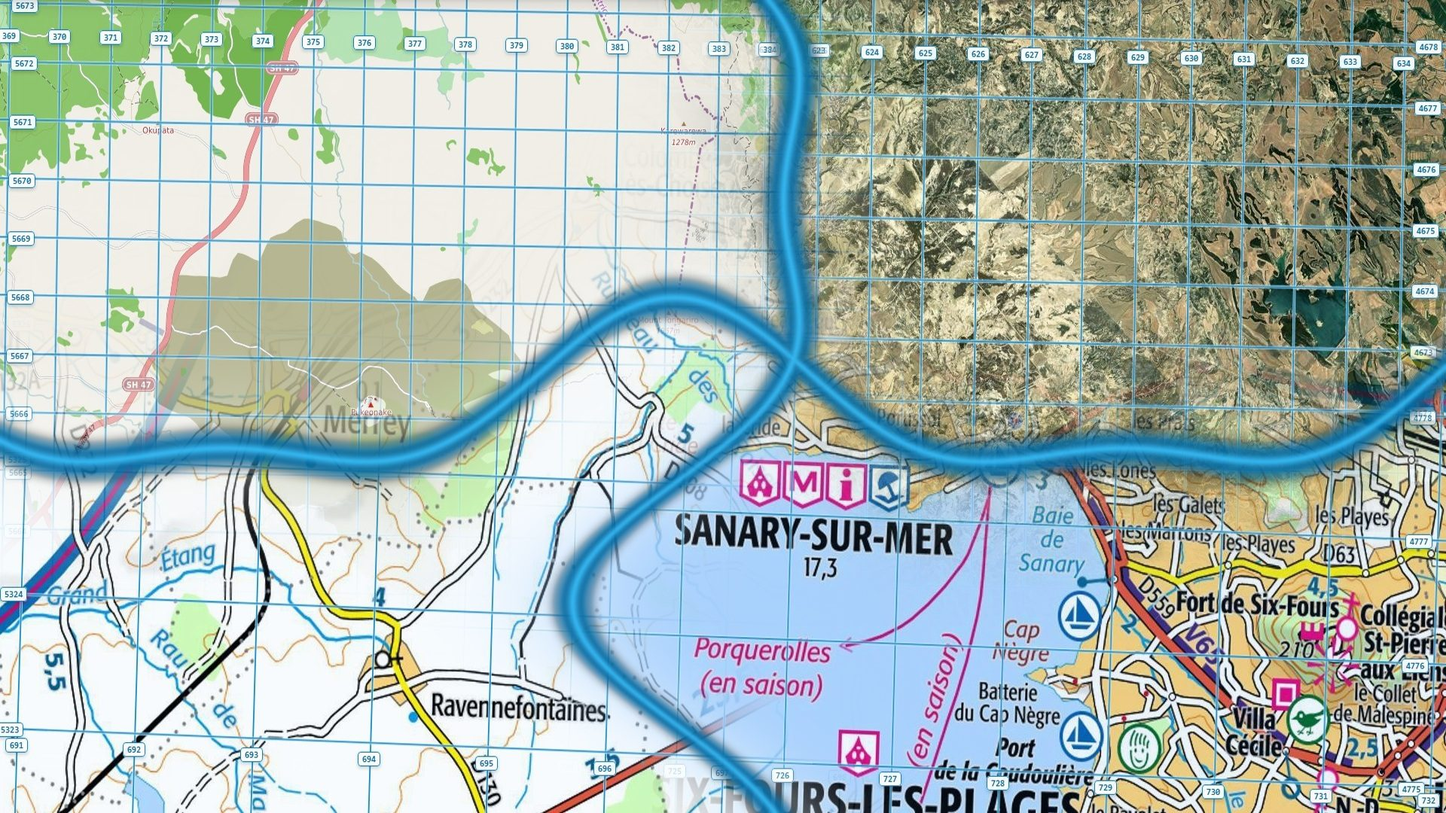
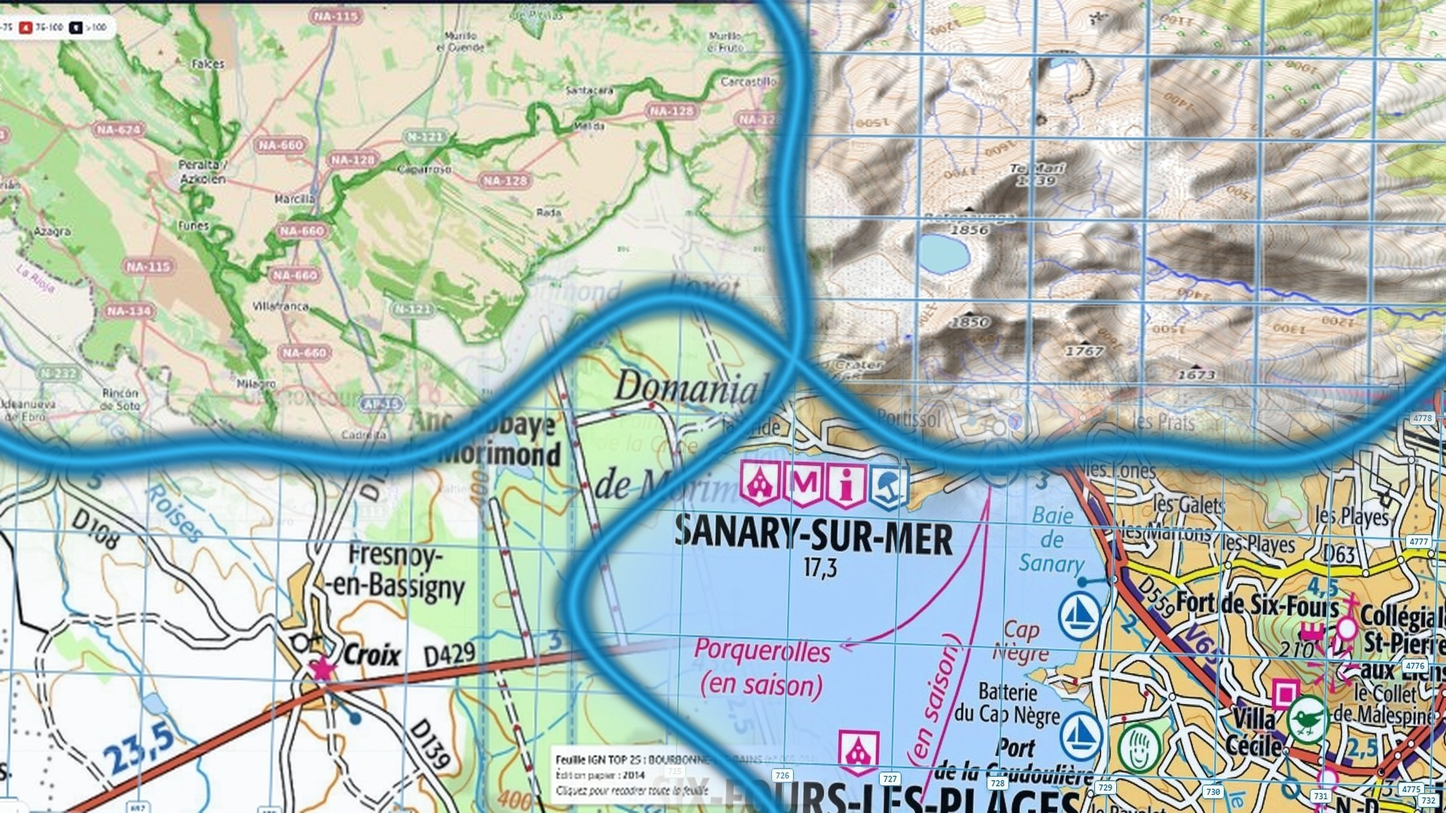
feat: update wallpaper cadrages (Bardenas, Morimond, Tongariro), add world address search, hide IBP and manual in free map mode, support commercial sheet refs

diff --git a/index.html b/index.html
@@ -1576,15 +1576,26 @@
             </button>
           </div>
 
-          <!-- Difficulty Legend on map -->
-
-          <div class="absolute top-3 left-14 z-20 hidden sm:flex items-center gap-2 bg-white/95 backdrop-blur-xs px-3 py-1.5 rounded-xl shadow-md border border-slate-200/90 text-[11px] font-semibold text-slate-700 pointer-events-none select-none">
+          <!-- Difficulty Legend on map (Actif uniquement en mode Randonner adherent) -->
+          <div id="map-ibp-legend" class="absolute top-3 left-14 z-20 hidden items-center gap-2 bg-white/95 backdrop-blur-xs px-3 py-1.5 rounded-xl shadow-md border border-slate-200/90 text-[11px] font-semibold text-slate-700 pointer-events-none select-none">
             <span class="text-[10px] font-black text-slate-500 uppercase tracking-wider flex items-center gap-1"><span>📈</span> IBP Index :</span>
             <span class="inline-flex items-center gap-1" title="Niveau 1 : Facile (≤ 25)"><span class="w-4 h-4 rounded text-[9px] font-black text-white flex items-center justify-center shadow-2xs" style="background-color:#16a34a">1</span> <span class="text-[10px] font-bold text-slate-600">≤25</span></span>
             <span class="inline-flex items-center gap-1" title="Niveau 2 : Assez facile (26 - 50)"><span class="w-4 h-4 rounded text-[9px] font-black text-white flex items-center justify-center shadow-2xs" style="background-color:#2563eb">2</span> <span class="text-[10px] font-bold text-slate-600">26-50</span></span>
             <span class="inline-flex items-center gap-1" title="Niveau 3 : Peu difficile (51 - 75)"><span class="w-4 h-4 rounded text-[9px] font-black text-white flex items-center justify-center shadow-2xs" style="background-color:#ea580c">3</span> <span class="text-[10px] font-bold text-slate-600">51-75</span></span>
             <span class="inline-flex items-center gap-1" title="Niveau 4 : Assez difficile (76 - 100)"><span class="w-4 h-4 rounded text-[9px] font-black text-white flex items-center justify-center shadow-2xs" style="background-color:#dc2626">4</span> <span class="text-[10px] font-bold text-slate-600">76-100</span></span>
             <span class="inline-flex items-center gap-1" title="Niveau 5 : Difficile (> 100)"><span class="w-4 h-4 rounded text-[9px] font-black text-white flex items-center justify-center shadow-2xs" style="background-color:#0f172a">5</span> <span class="text-[10px] font-bold text-slate-600">&gt;100</span></span>
+          </div>
+
+          <!-- Recherche exhaustive d'un lieu / adresse (Monde entier) en mode Carte & Outils -->
+          <div id="map-world-search-box" class="absolute top-3 left-14 z-20 flex flex-col">
+            <div class="relative flex items-center shadow-md rounded-xl">
+              <input id="map-world-search-input" type="text" 
+                     placeholder="🔍 Rechercher un lieu, sommet, adresse (Monde entier)..." 
+                     class="w-72 sm:w-96 pl-3 pr-7 py-2 rounded-xl bg-white/95 hover:bg-white focus:bg-white text-slate-800 placeholder-slate-400 border border-slate-300 focus:border-emerald-500 focus:outline-none focus:ring-2 focus:ring-emerald-400/40 text-xs font-semibold backdrop-blur-md transition-all shadow-sm"
+                     autocomplete="off">
+              <button id="btn-clear-world-search" type="button" class="hidden absolute right-2.5 text-slate-400 hover:text-slate-700 font-bold text-xs" title="Effacer">✕</button>
+            </div>
+            <div id="map-world-search-results" class="hidden mt-1 w-72 sm:w-96 max-h-64 overflow-y-auto bg-white/98 rounded-xl shadow-2xl border border-slate-200 z-50 divide-y divide-slate-100 text-xs"></div>
           </div>
 
 
@@ -5775,11 +5786,11 @@ CREATE POLICY "Public Read/Write" ON randonnees_sanaryens FOR ALL USING (true) W
 
   <script src="js/screen-calib-manager.js?v=92"></script>
   <script src="js/ign-top25-sheets.js?v=92"></script>
-  <script src="js/map-manager.js?v=92"></script>
+  <script src="js/map-manager.js?v=93"></script>
 
   <script src="js/pdf-exporter.js?v=91"></script>
 
-  <script src="js/portal-router.js?v=2.0.0"></script>
+  <script src="js/portal-router.js?v=2.1.0"></script>
     <script src="js/app.js?v=91"></script>
 
 

diff --git a/js/map-manager.js b/js/map-manager.js
@@ -1,3 +1,24 @@
+// Dictionnaire des correspondances commerciales IGN TOP 25 / Série Bleue (OT / ET / SB)
+const IGN_COMMERCIAL_REFS = {
+  "087_088": "3346 OT",  // Toulon / Le Gros Cerveau / Mont Faron
+  "089_088": "3446 OT",  // Hyères / Ile de Porquerolles
+  "065_034": "3218 SB",  // Bourbonne-les-Bains
+  "085_086": "3245 ET",  // Aubagne / La Ciotat / Massif de la Sainte-Baume
+  "083_086": "3145 ET",  // Marseille / Les Calanques
+  "091_086": "3545 OT",  // Saint-Tropez / Sainte-Maxime / Massif des Maures
+  "091_084": "3544 ET",  // Fréjus / Saint-Raphaël
+  "093_082": "3643 ET",  // Cannes / Grasse
+  "095_080": "3742 OT",  // Nice / Monaco / Menton
+  "093_056": "3630 OT",  // Chamonix / Mont-Blanc
+};
+
+function getSheetCommercialLabel(num, title) {
+  if (IGN_COMMERCIAL_REFS[num]) {
+    return `${IGN_COMMERCIAL_REFS[num]} • ${title}`;
+  }
+  return `TOP 25 ${title}`;
+}
+
 /**
  * Leaflet Map Manager with IGN, OpenStreetMap, Clean GPX Polylines & Selection Halo
  * Les Randonneurs Sanaryens - RandoFinder - JLD Apps 2026
@@ -2295,10 +2316,9 @@ class MapManager {
         if (pMarker.y >= 20 && pMarker.y <= mapSize.y - 48 &&
             pMarker.x >= (labelEstimatedWidth / 2) && pMarker.x <= mapSize.x - (labelEstimatedWidth / 2)) {
           const labelHtml = `
-            <div class="paper-sheet-badge-label" title="Feuille IGN : ${s.t} (n° ${s.n})\nÉdition papier : ${s.a}\nCliquer pour recadrer toute la feuille">
+            <div class="paper-sheet-badge-label" title="Feuille IGN : ${getSheetCommercialLabel(s.n, s.t)}\nÉdition papier : ${s.a}\nCliquer pour recadrer toute la feuille">
               <span class="mr-1">📄</span>
-              <strong>TOP 25 ${s.t}</strong>
-              <span class="opacity-80 text-[10px]">(${s.n})</span>
+              <strong>${getSheetCommercialLabel(s.n, s.t)}</strong>
               <span class="ml-1 px-1 py-0.5 rounded bg-sky-100 text-sky-800 font-mono text-[9px] font-bold">Éd. ${s.a}</span>
             </div>
           `;
@@ -2328,7 +2348,7 @@ class MapManager {
       outerBand.on('click', fitSheet);
 
       // Infobulle complete toujours disponible au survol meme si le badge texte est masque
-      const tooltipText = `<b>Feuille IGN TOP 25 : ${s.t}</b> (n° ${s.n})<br>Édition papier : <b>${s.a}</b><br><i>Cliquez pour recadrer toute la feuille</i>`;
+      const tooltipText = `<b>Feuille IGN : ${getSheetCommercialLabel(s.n, s.t)}</b><br>Édition papier : <b>${s.a}</b><br><i>Cliquez pour recadrer toute la feuille</i>`;
       outerBand.bindTooltip(tooltipText, { sticky: true, opacity: 0.95 });
 
       this.paperSheetLayer.addLayer(outerBand);
@@ -2370,7 +2390,7 @@ class MapManager {
       );
       if (match) {
         annee = match.a;
-        titre = match.t ? `${match.t} (${match.n})` : match.n;
+        titre = match.t ? getSheetCommercialLabel(match.n, match.t) : match.n;
         fullTooltip = `Feuille IGN : ${titre} • Édition papier : ${annee}`;
       }
     }

diff --git a/js/portal-router.js b/js/portal-router.js
@@ -109,6 +109,9 @@
         });
       }
 
+      // Recherche de lieu monde entier
+      this.initWorldSearch();
+
       // Visualiseur GPX libre (accès libre sans compte)
       const inputGpxViewer = document.getElementById('input-quick-gpx-viewer');
       const btnQuickGpx = document.getElementById('btn-quick-gpx-viewer');
@@ -237,6 +240,9 @@
       const tableCol = document.getElementById('table-column');
       const mapCol = document.getElementById('map-column');
       const headerSubLocation = document.getElementById('header-sub-location');
+      const ibpLegend = document.getElementById('map-ibp-legend');
+      const searchBox = document.getElementById('map-world-search-box');
+      const btnMapManual = document.getElementById('btn-map-manual');
 
       if (isFree) {
         // En mode libre : masquer Randonneurs Sanaryens et afficher Map & Rando by JLDApps
@@ -245,6 +251,11 @@
           maprandoBranding.classList.remove('hidden');
           maprandoBranding.classList.add('flex');
         }
+        // Masquer complètement l'IBP index et le Mode d'emploi RandoFinder en mode Carte & Outils
+        if (ibpLegend) ibpLegend.classList.add('hidden');
+        if (btnMapManual) btnMapManual.classList.add('hidden');
+        if (searchBox) searchBox.classList.remove('hidden');
+
         // Masquer complètement les barres de filtres et d'instructions de randonnées
         if (searchFilterBar) searchFilterBar.classList.add('hidden');
         if (searchInstructionsBar) searchInstructionsBar.classList.add('hidden');
@@ -282,6 +293,11 @@
           }
         }
       } else {
+        // En mode adhérent : restaurer Randonneurs Sanaryens, l'IBP index et le mode d'emploi
+        if (ibpLegend) ibpLegend.classList.remove('hidden');
+        if (btnMapManual) btnMapManual.classList.remove('hidden');
+        if (searchBox) searchBox.classList.add('hidden');
+
         // En mode adhérent : restaurer Randonneurs Sanaryens et masquer Map & Rando libre
         if (logoFrame) logoFrame.classList.remove('hidden');
         if (maprandoBranding) {
